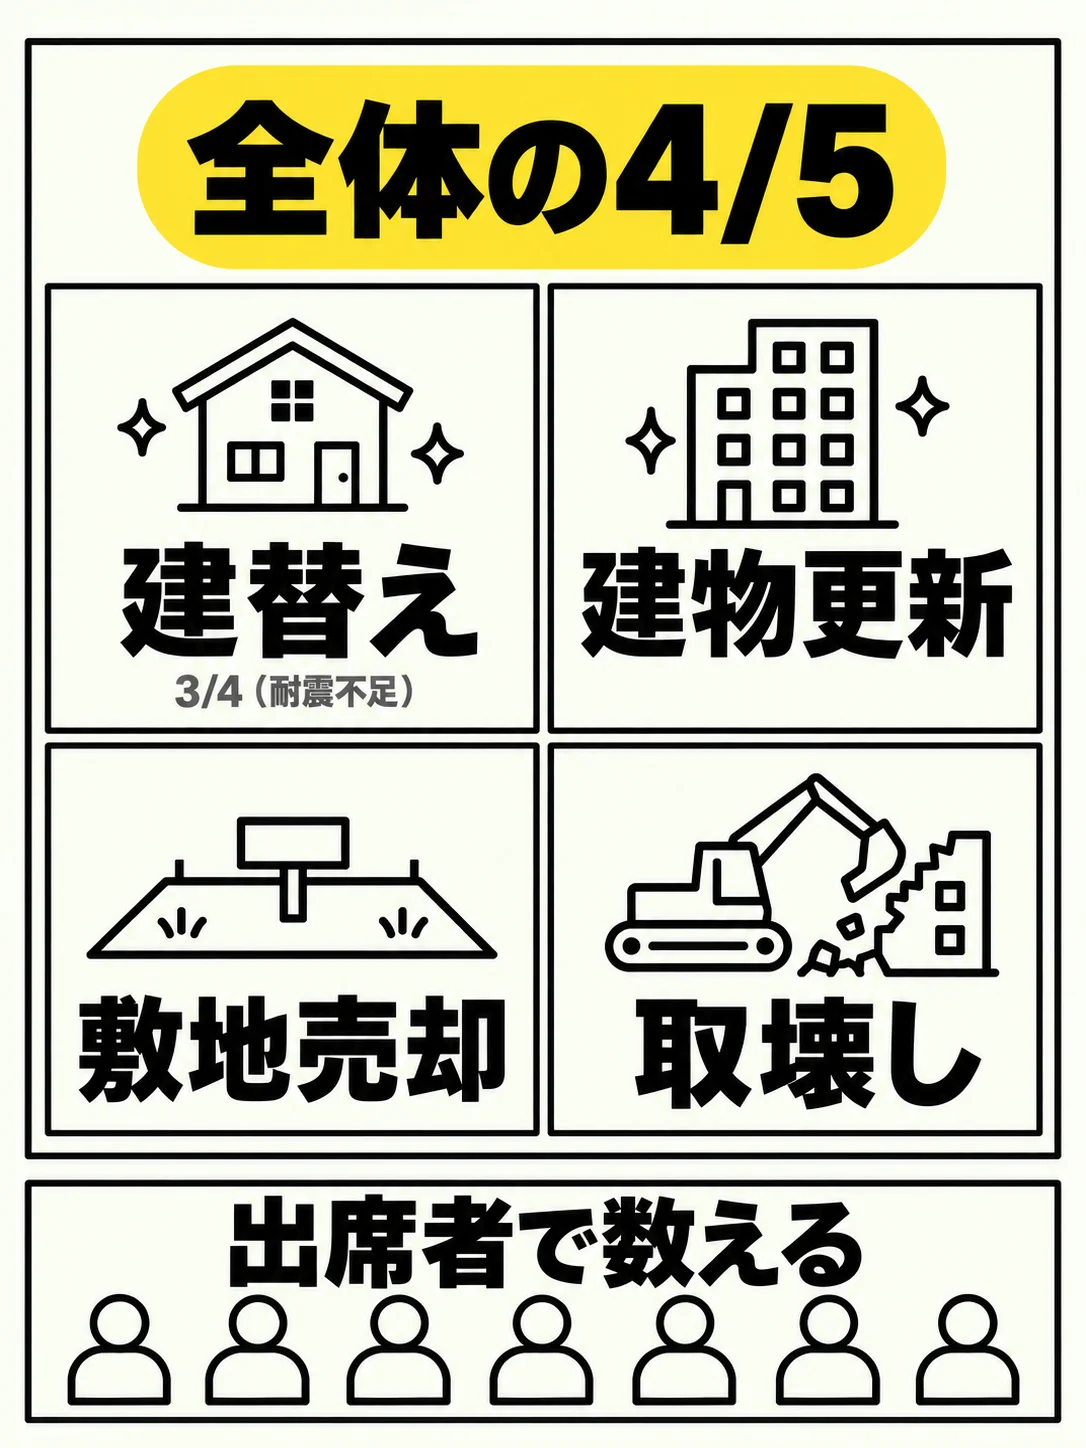
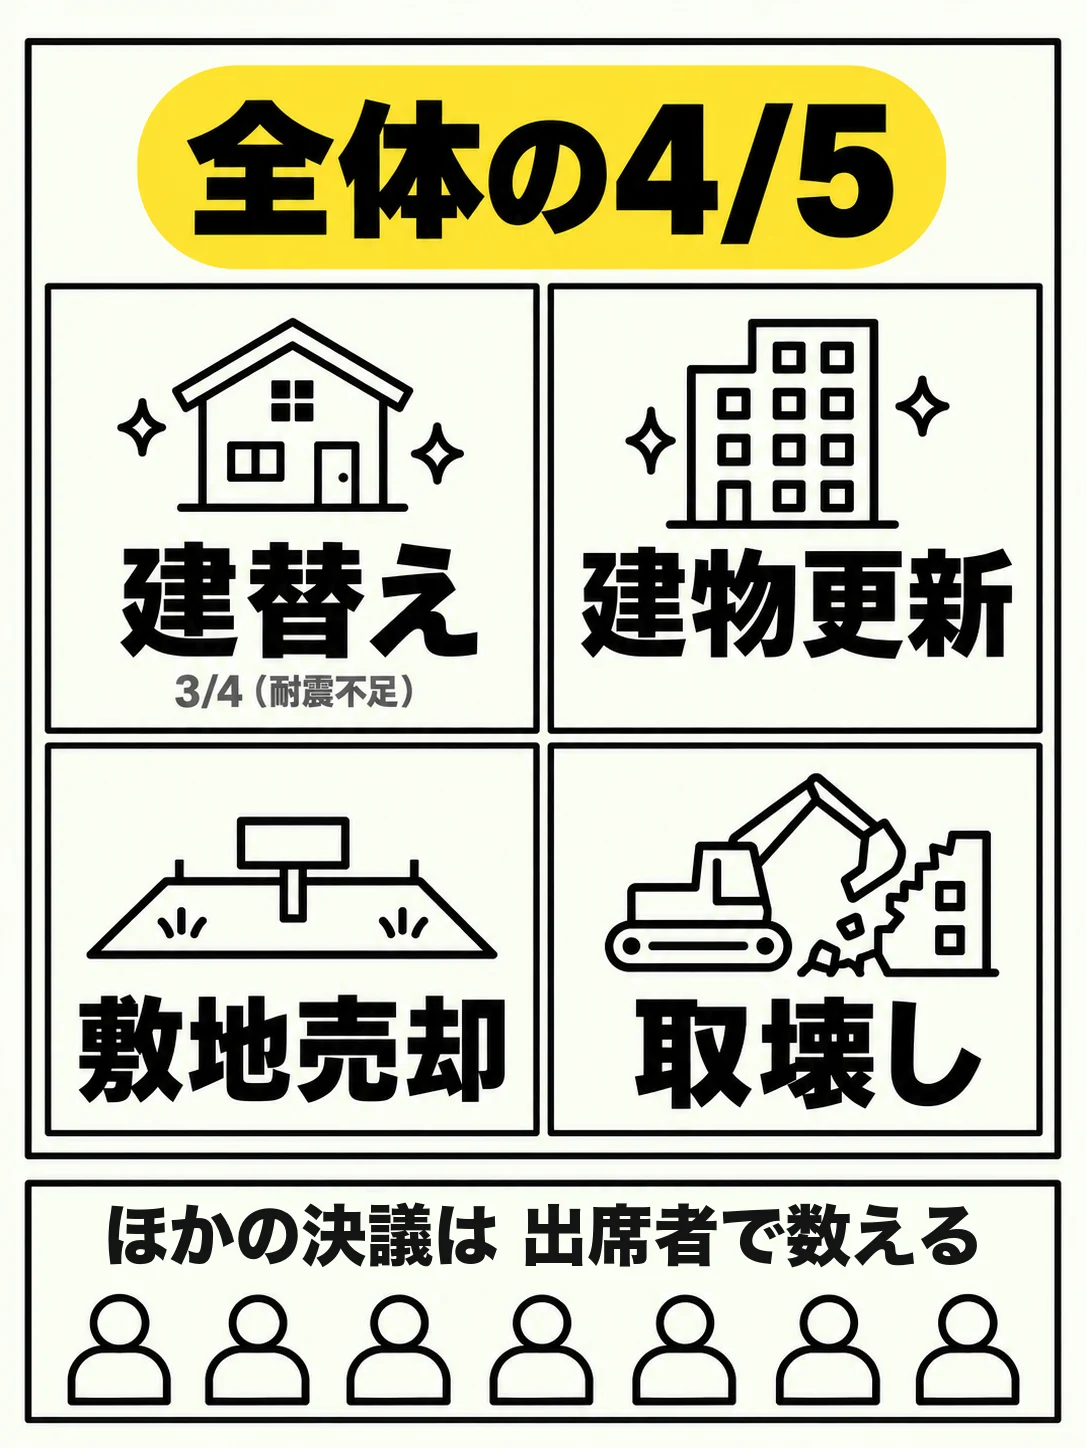
publish: 宅建 呪文カード (区分所有の図の帯を直す)

Changed region(s): [[0.0912, 0.808, 0.9116, 0.9012]]

diff --git a/takken-review-0ee08412/spells.html b/takken-review-0ee08412/spells.html
@@ -121,8 +121,8 @@ const CARDS=[
  {cue:'単独申請の例外',spell:'相続・合併／相続人への遺贈／保存／住所氏名／収用／判決／<mark>信託</mark>（受託者）',sub:'それ以外は原則 <span class="ink">共同申請</span>'},
  {cue:'単独申請の例外',img:'spell-03',cap:'図 単独申請の例外'},
  {cue:'登記の義務',pair:[['相続登記','知って <mark>3年</mark>・10万円'],['住所氏名の変更','<mark>2年</mark>・5万円']]},
- {cue:'区分所有・全体の 4/5',spell:'建替え・建物更新・敷地売却・取壊し',sub:'建替えで耐震不足などは 3/4。<span class="ink">ほかの決議は出席者で数える</span>（共用部分の変更3/4・規約3/4・復旧2/3・使用禁止3/4）'},
- {cue:'区分所有・全体の 4/5',img:'spell-04',cap:'図 区分所有の4/5'},
+ {cue:'区分所有・全体の 4/5',spell:'建替え・建物更新・敷地売却・取壊し',sub:'全体＝<span class="ink">区分所有者と議決権の各 4/5</span>（出席者ではない）。建替えで耐震不足などは 3/4。<span class="ink">ほかの決議は出席者で数える</span>（共用部分の変更3/4・規約3/4・復旧2/3・使用禁止3/4）'},
+ {cue:'区分所有・全体の 4/5',img:'spell-04',v:2,cap:'図 区分所有の4/5（上の4つ＝区分所有者と議決権の各4/5。下の帯はほかの決議）'},
  {cue:'配偶者居住権',spell:'相続 <span class="ng">されない</span>'},
  {cue:'人身の損害の時効',spell:'知った時から <mark>5年</mark>'},
  {cue:'保証人',spell:'主たる債務者の不利は<br>保証人に <span class="ng">及ばない</span>',sub:'後からの加重・時効利益の放棄'},
@@ -154,7 +154,7 @@ CARDS.forEach((c,i)=>{
     if(c.pair) body+=`<div class="pair">${c.pair.map(p=>`<div><div class="k">${p[0]}</div>${p[1]}</div>`).join('')}</div>`;
     if(c.clock) body+=`<div class="clock">${c.clock.map(p=>`<div><span class="t">${p[0]}</span><span class="w">${p[1]}</span></div>`).join('')}</div>`;
     if(c.sub) body+=`<div class="sub">${c.sub}</div>`;
-    if(c.img) body+=`<a class="fig big" href="${IMG}${c.img}.webp" target="_blank" rel="noopener"><img loading="lazy" src="${IMG}${c.img}.webp" alt="${c.cap}"></a>`;
+    if(c.img) body+=`<a class="fig big" href="${IMG}${c.img}.webp${c.v?'?v='+c.v:''}" target="_blank" rel="noopener"><img loading="lazy" src="${IMG}${c.img}.webp${c.v?'?v='+c.v:''}" alt="${c.cap}"></a>`;
     if(c.fig) body+=`<a class="fig" href="${APP}#${c.fig}" target="_blank" rel="noopener"><img loading="lazy" src="${IMG}${FILE[c.fig]||c.fig}.webp" alt="${c.cap||c.fig}"></a><div class="figcap">${c.cap||''}（タップで大きく）</div>`;
   }
   sec.innerHTML=`<div class="bar" style="width:${pct}%"></div>
